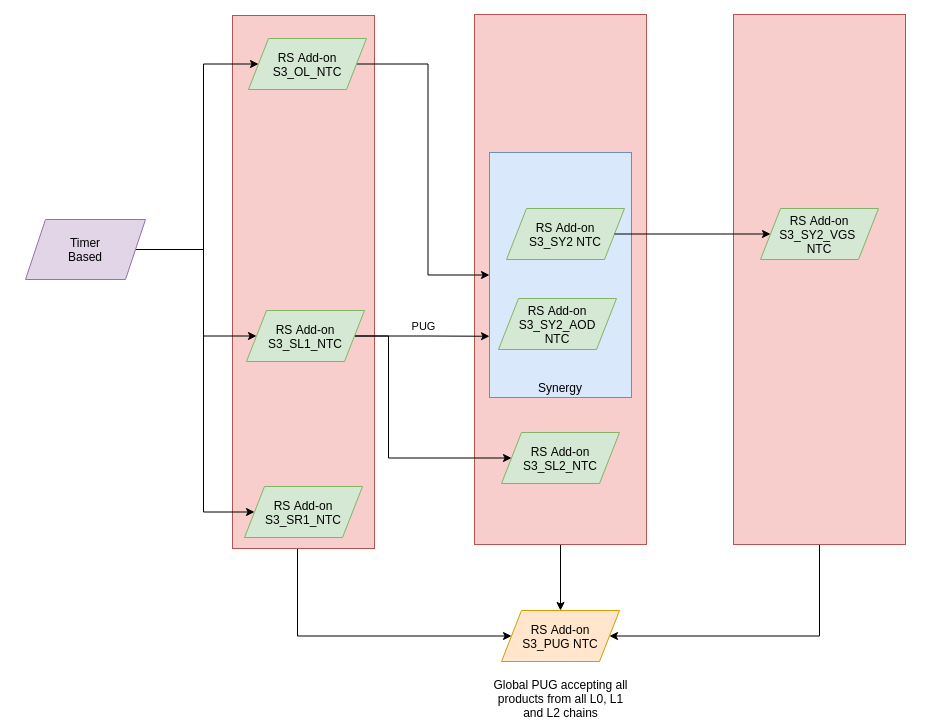
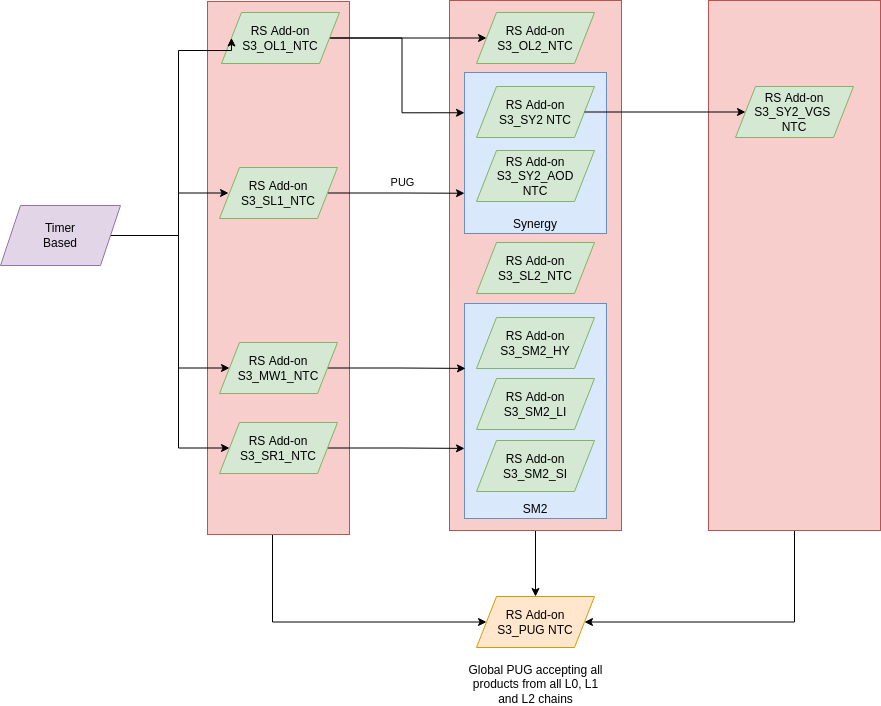
RS-XX: Update overview of available RS-Addons for S3 NTC

Changed region(s): [[0.1839, 0.0, 1.0, 0.9972], [0.0, 0.2805, 0.1532, 0.4051], [0.8581, 0.7479, 0.9194, 0.779]]

diff --git a/README.md b/README.md
@@ -46,6 +46,9 @@ The following individual NTC processing chains are available:
 * [S3 SL1 NTC](./s3-sl1-ntc/doc/ReleaseNote.md)
 * [S3 SL2 NTC](./s3-sl2-ntc/doc/ReleaseNote.md)
 * [S3 SL2 FRP NTC](./s3-sl2-frp-ntc/doc/ReleaseNote.md)
+* [S3 SM2 HY NTC](./s3-sm2-hy-ntc/doc/ReleaseNote.md)
+* [S3 SM2 LI NTC](./s3-sm2-li-ntc/doc/ReleaseNote.md)
+* [S3 SM2 SI NTC](./s3-sm2-si-ntc/doc/ReleaseNote.md)
 * [S3 SR1 NTC](./s3-sr1-ntc/doc/ReleaseNote.md)
 * [S3 SY2 NTC](./s3-sy2-ntc/doc/ReleaseNote.md)
 * [S3 SY2_AOD NTC](./s3-sy2-aod-ntc/doc/ReleaseNote.md)
@@ -53,8 +56,12 @@ The following individual NTC processing chains are available:
 * [S3 PUG NTC](./s3-pug-ntc/doc/ReleaseNote.md)
 
 ![overview](./docs/media/rs_addons_s3_stc_overview.png "STC Overview")
-The following individual NTC processing chains are available:
+
+The following individual STC processing chains are available:
 * [S3 MW1 STC](./s3-mw1-stc/doc/ReleaseNote.md)
+* [S3 SM2 HY STC](./s3-sm2-hy-stc/doc/ReleaseNote.md)
+* [S3 SM2 LI STC](./s3-sm2-li-stc/doc/ReleaseNote.md)
+* [S3 SM2 SI STC](./s3-sm2-si-stc/doc/ReleaseNote.md)
 * [S3 SR1 STC](./s3-sr1-stc/doc/ReleaseNote.md)
 * [S3 SY2 STC](./s3-sy2-stc/doc/ReleaseNote.md)
 * [S3 SY2_VGS STC](./s3-sy2-vgs-stc/doc/ReleaseNote.md)
